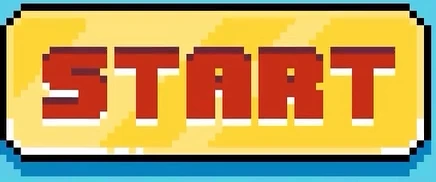
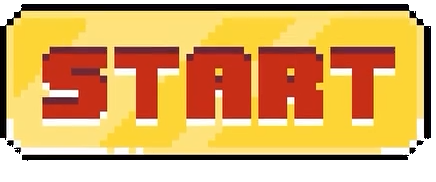
feat(ui): refine cover supplied assets

Changed region(s): [[0.0, 0.0, 1.0, 1.0]]

diff --git a/Project Documentation System/PROJECT_STATUS.md b/Project Documentation System/PROJECT_STATUS.md
@@ -409,3 +409,10 @@ These files were inventoried and not modified, staged, deleted or overwritten by
 - Runtime delivery: optimized WebP copies are 254.10 KB, 18.47 KB and under 10 KB respectively; original user-supplied files remain unchanged under `assets-source/user-supplied/cover/`.
 - Accessibility: subtitle retains meaningful Thai alt text; START artwork is decorative inside a real button whose accessible name remains `PLAY`; existing focus-visible behavior is retained.
 - Local browser QA: 390×844 and 1280×800 passed with the new background visibly applied, all images loaded, PLAY visible, and no horizontal overflow. No game logic, balance, RNG or engine contract changed.
+
+## Incremental Frontend Step — Cover asset refinement (2026-08-21)
+
+- Scope: refined only the two user-supplied Cover assets already integrated in the existing `CoverScreen` layout.
+- `game-subtitle.png`: rebuilt the runtime file without trimming the source frame, so the subtitle now keeps the full original artwork bounds.
+- `play-button.png`: kept the current START-button crop for layout stability, but removed the supplied blue background color from the runtime image so only the button art remains visible on the Cover.
+- Constraint: no game logic, balance, RNG, engine contract, layout structure, or other screens changed in this refinement step.

diff --git a/assets-source/user-supplied/cover/README.md b/assets-source/user-supplied/cover/README.md
@@ -21,6 +21,6 @@
 ## Integration log — 2026-08-21
 
 - `cover-background` → `Background Artwork`; converted to `src/assets/ui/cover-background-user.webp` without changing the Cover layout.
-- `game-subtitle.png` → `Game Subtitle`; converted to transparent WebP while preserving accessible Thai text.
-- `play-button.png` → `PLAY Button`; cropped to the supplied START artwork and converted to WebP. The real button retains the accessible `PLAY` label and keyboard focus behavior.
+- `game-subtitle.png` → `Game Subtitle`; converted to transparent WebP without trimming the original subtitle frame, while preserving accessible Thai text.
+- `play-button.png` → `PLAY Button`; kept the existing START crop for layout stability and removed the supplied blue background color from the runtime image. The real button retains the accessible `PLAY` label and keyboard focus behavior.
 - Existing `Game Logo`, `Hero Lineup`, overlays, Continue/Error states and layout positions were preserved.
